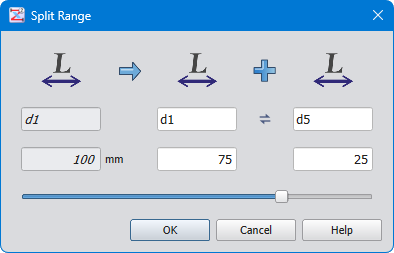
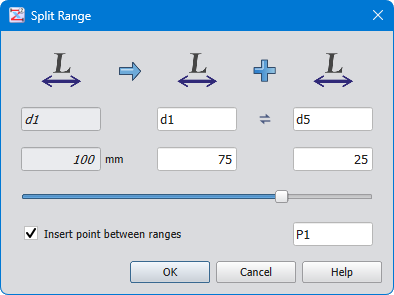
can insert point in Split Range

diff --git a/src/windows/RangeOperationsDialog.cpp b/src/windows/RangeOperationsDialog.cpp
@@ -2,11 +2,14 @@
 
 #include "../app/HelpSystem.h"
 #include "../core/Schema.h"
+#include "../core/Elements.h"
 
 #include "helpers/OriDialogs.h"
+#include "helpers/OriLayouts.h"
 #include "widgets/OriLabels.h"
 #include "widgets/OriValueEdit.h"
 
+#include <QCheckBox>
 #include <QGridLayout>
 #include <QLabel>
 #include <QLineEdit>
@@ -23,25 +26,25 @@ SplitRangeDlg::SplitRangeDlg(Schema *schema, ElementRange* srcElem) : QWidget(),
     _slider->setPageStep(sliderMax/10);
     connect(_slider, &QSlider::valueChanged, this, &SplitRangeDlg::onSliderValueChanged);
 
-    auto editLabel = makeEditor<QLineEdit>();
-    editLabel->setText(srcElem->label());
-    editLabel->setReadOnly(true);
+    auto rangeLabel = makeEditor<QLineEdit>();
+    rangeLabel->setText(srcElem->label());
+    rangeLabel->setReadOnly(true);
 
-    _editLabel1 = makeEditor<QLineEdit>();
-    _editLabel1->setText(srcElem->label());
+    _rangeLabel1 = makeEditor<QLineEdit>();
+    _rangeLabel1->setText(srcElem->label());
 
-    _editLabel2 = makeEditor<QLineEdit>();
-    _editLabel2->setText(Z::Utils::generateLabel(schema, srcElem->labelPrefix()));
+    _rangeLabel2 = makeEditor<QLineEdit>();
+    _rangeLabel2->setText(Z::Utils::generateLabel(schema, srcElem->labelPrefix()));
 
-    auto editParam = makeEditor<Ori::Widgets::ValueEdit>();
-    editParam->setValue(srcParam->value().value());
-    editParam->setReadOnly(true);
+    auto rangeParam = makeEditor<Ori::Widgets::ValueEdit>();
+    rangeParam->setValue(srcParam->value().value());
+    rangeParam->setReadOnly(true);
     
-    auto labelUnit = new QLabel(srcParam->value().unit()->name());
-    labelUnit->setFixedWidth(2*symbolIconSize);
+    auto unitLabel = new QLabel(srcParam->value().unit()->name());
+    unitLabel->setFixedWidth(2*symbolIconSize);
 
-    auto labelSpacer = new QLabel;
-    labelSpacer->setFixedWidth(2*symbolIconSize);
+    auto spacerLabel = new QLabel;
+    spacerLabel->setFixedWidth(2*symbolIconSize);
 
     _editParam1 = makeEditor<Ori::Widgets::ValueEdit>();
     _editParam2 = makeEditor<Ori::Widgets::ValueEdit>();
@@ -53,6 +56,13 @@ SplitRangeDlg::SplitRangeDlg(Schema *schema, ElementRange* srcElem) : QWidget(),
     buttonSwap->setToolTip(tr("Swap elements"));
     buttonSwap->setIcon(QIcon(":/toolbar/equ_swap"));
     connect(buttonSwap, &QPushButton::clicked, this, &SplitRangeDlg::onSwapButtonClicked);
+    
+    _insertPoint = new QCheckBox(tr("Insert point between ranges"));
+    connect(_insertPoint, &QCheckBox::stateChanged, this, &SplitRangeDlg::onInsertLabelToggled);
+    
+    _pointLabel = makeEditor<QLineEdit>();
+    _pointLabel->setEnabled(false);
+    _pointLabel->setText(Z::Utils::generateLabel(schema, ElemPoint().labelPrefix()));
 
     auto l = new QGridLayout;
     l->setHorizontalSpacing(4);
@@ -65,21 +75,23 @@ SplitRangeDlg::SplitRangeDlg(Schema *schema, ElementRange* srcElem) : QWidget(),
     l->addWidget(Ori::Widgets::iconLabel(":/toolbar/plus", symbolIconSize), row, 3);
     l->addWidget(Ori::Widgets::iconLabel(elemIconPath, elemIconSize), row, 4);
     row++;
-    l->addWidget(editLabel, row, 0);
-    l->addWidget(_editLabel1, row, 2);
+    l->addWidget(rangeLabel, row, 0);
+    l->addWidget(_rangeLabel1, row, 2);
     l->addWidget(buttonSwap, row, 3);
-    l->addWidget(_editLabel2, row, 4);
+    l->addWidget(_rangeLabel2, row, 4);
     row++;
-    l->addWidget(editParam, row, 0);
-    l->addWidget(labelUnit, row, 1);
+    l->addWidget(rangeParam, row, 0);
+    l->addWidget(unitLabel, row, 1);
     l->addWidget(_editParam1, row, 2);
-    l->addWidget(labelSpacer, row, 3);
+    l->addWidget(spacerLabel, row, 3);
     l->addWidget(_editParam2, row, 4);
     
     auto mainLayout = new QVBoxLayout(this);
     mainLayout->addLayout(l);
     mainLayout->addSpacing(12);
     mainLayout->addWidget(_slider);
+    mainLayout->addSpacing(12);
+    mainLayout->addLayout(Ori::Layouts::LayoutH({_insertPoint, _pointLabel}).boxLayout());
     
     onSliderValueChanged();
 }
@@ -105,9 +117,9 @@ void SplitRangeDlg::onSwapButtonClicked()
     _editParam2->setValue(_editParam1->value());
     _editParam1->setValue(value2);
  
-    auto label2 = _editLabel2->text();
-    _editLabel2->setText(_editLabel1->text());
-    _editLabel1->setText(label2);
+    auto label2 = _rangeLabel2->text();
+    _rangeLabel2->setText(_rangeLabel1->text());
+    _rangeLabel1->setText(label2);
 }
 
 void SplitRangeDlg::onParamValueEdited()
@@ -136,14 +148,19 @@ void SplitRangeDlg::onParamValueEdited()
     _skipSlider = false;
 }
 
+void SplitRangeDlg::onInsertLabelToggled()
+{
+    _pointLabel->setEnabled(_insertPoint->isChecked());
+}
+
 QString SplitRangeDlg::oldLabel() const
 {
-    return (_insertAfter ? _editLabel1 : _editLabel2)->text().trimmed();
+    return (_insertAfter ? _rangeLabel1 : _rangeLabel2)->text().trimmed();
 }
 
 QString SplitRangeDlg::newLabel() const
 {
-    return (_insertAfter ? _editLabel2 : _editLabel1)->text().trimmed();
+    return (_insertAfter ? _rangeLabel2 : _rangeLabel1)->text().trimmed();
 }
 
 Z::Value SplitRangeDlg::oldValue() const
@@ -154,6 +171,16 @@ Z::Value SplitRangeDlg::oldValue() const
 Z::Value SplitRangeDlg::newValue() const
 {
     return Z::Value((_insertAfter ? _editParam2 : _editParam1)->value(), srcParam->value().unit());
+}
+
+bool SplitRangeDlg::insertPoint() const
+{
+    return _insertPoint->isChecked();
+}
+
+QString SplitRangeDlg::pointLabel() const
+{
+    return _pointLabel->text().trimmed();
 }
 
 bool SplitRangeDlg::exec()

diff --git a/src/windows/SchemaViewWindow.cpp b/src/windows/SchemaViewWindow.cpp
@@ -2,6 +2,7 @@
 
 #include "../app/CalcManager.h"
 #include "../app/CustomElemsManager.h"
+#include "../core/Elements.h"
 #include "../core/ElementsCatalog.h"
 #include "../core/ElementFormula.h"
 #include "../core/Utils.h"
@@ -321,9 +322,20 @@ void SchemaViewWindow::actionRangeSplit()
     int beforeIndex = schema()->indexOf(oldElem);
     if (dlg.insertAfter())
         beforeIndex += 1;
+        
+    // relinkInterfaces is in insertElements()
+    schema()->insertElements({newElem}, beforeIndex, Arg::RaiseEvents(false));
+    schema()->events().raise(SchemaEvents::ElemCreated, newElem, "SchemaViewWindow: split range");
     
-    // relinkInterfaces and RecalRequred event are in insertElements()
-    schema()->insertElements({newElem}, beforeIndex, Arg::RaiseEvents(true));
+    if (dlg.insertPoint()) {
+        auto point = new ElemPoint;
+        point->setLabel(dlg.pointLabel());
+        beforeIndex = schema()->indexOf(dlg.insertAfter() ? newElem : oldElem);
+        schema()->insertElements({point}, beforeIndex, Arg::RaiseEvents(false));
+        schema()->events().raise(SchemaEvents::ElemCreated, point, "SchemaViewWindow: split range");
+    }
+    
+    schema()->events().raise(SchemaEvents::RecalRequred, "SchemaViewWindow: split range");
     
     _table->setCurrentElem(newElem);
 }

diff --git a/src/windows/RangeOperationsDialog.h b/src/windows/RangeOperationsDialog.h
@@ -5,6 +5,7 @@
 
 #include <QWidget>
 
+class QCheckBox;
 class QLineEdit;
 class QSlider;
 namespace Ori::Widgets {
@@ -24,9 +25,11 @@ public:
     
     QString oldLabel() const;
     QString newLabel() const;
+    QString pointLabel() const;
     Z::Value oldValue() const;
     Z::Value newValue() const;
     bool insertAfter() const { return _insertAfter; }
+    bool insertPoint() const;
     
 private:
     const Z::Parameter *srcParam;
@@ -36,15 +39,17 @@ private:
     const int editorWidth = 80;
     
     QSlider *_slider;
-    QLineEdit *_editLabel1, *_editLabel2;
+    QLineEdit *_rangeLabel1, *_rangeLabel2, *_pointLabel;
     Ori::Widgets::ValueEdit *_editParam1, *_editParam2;
     QSharedPointer<QWidget> _content;
+    QCheckBox *_insertPoint;
     bool _insertAfter = true;
     bool _skipSlider = false;
     
     void onSliderValueChanged();
     void onSwapButtonClicked();
     void onParamValueEdited();
+    void onInsertLabelToggled();
 
     template<typename TEditor> TEditor* makeEditor()
     {

diff --git a/help/elem_opers_split_range.rst b/help/elem_opers_split_range.rst
@@ -19,6 +19,8 @@ The length of the source element is shared proportionally between the original a
 
 There is a tiny double-arrow button between label editors. The button defines if the new element should be placed before or after the original element. By default, the new element is inserted after the original one. Click the button to swap the elements.
 
+If the "Insert point between ranges" option is checked, then a :ref:`elem_point` is automatically created between the original and new elements. The label for the point element is generated automatically and can be edited manually.
+
     .. image:: img/elem_opers_split_range.png
 
 .. seeAlso::

diff --git a/help/matrix/ElemPoint.rst b/help/matrix/ElemPoint.rst
@@ -1,4 +1,5 @@
 .. _ElemPoint:
+.. _elem_point:
 .. index:: single: point element
 
 Point Element
